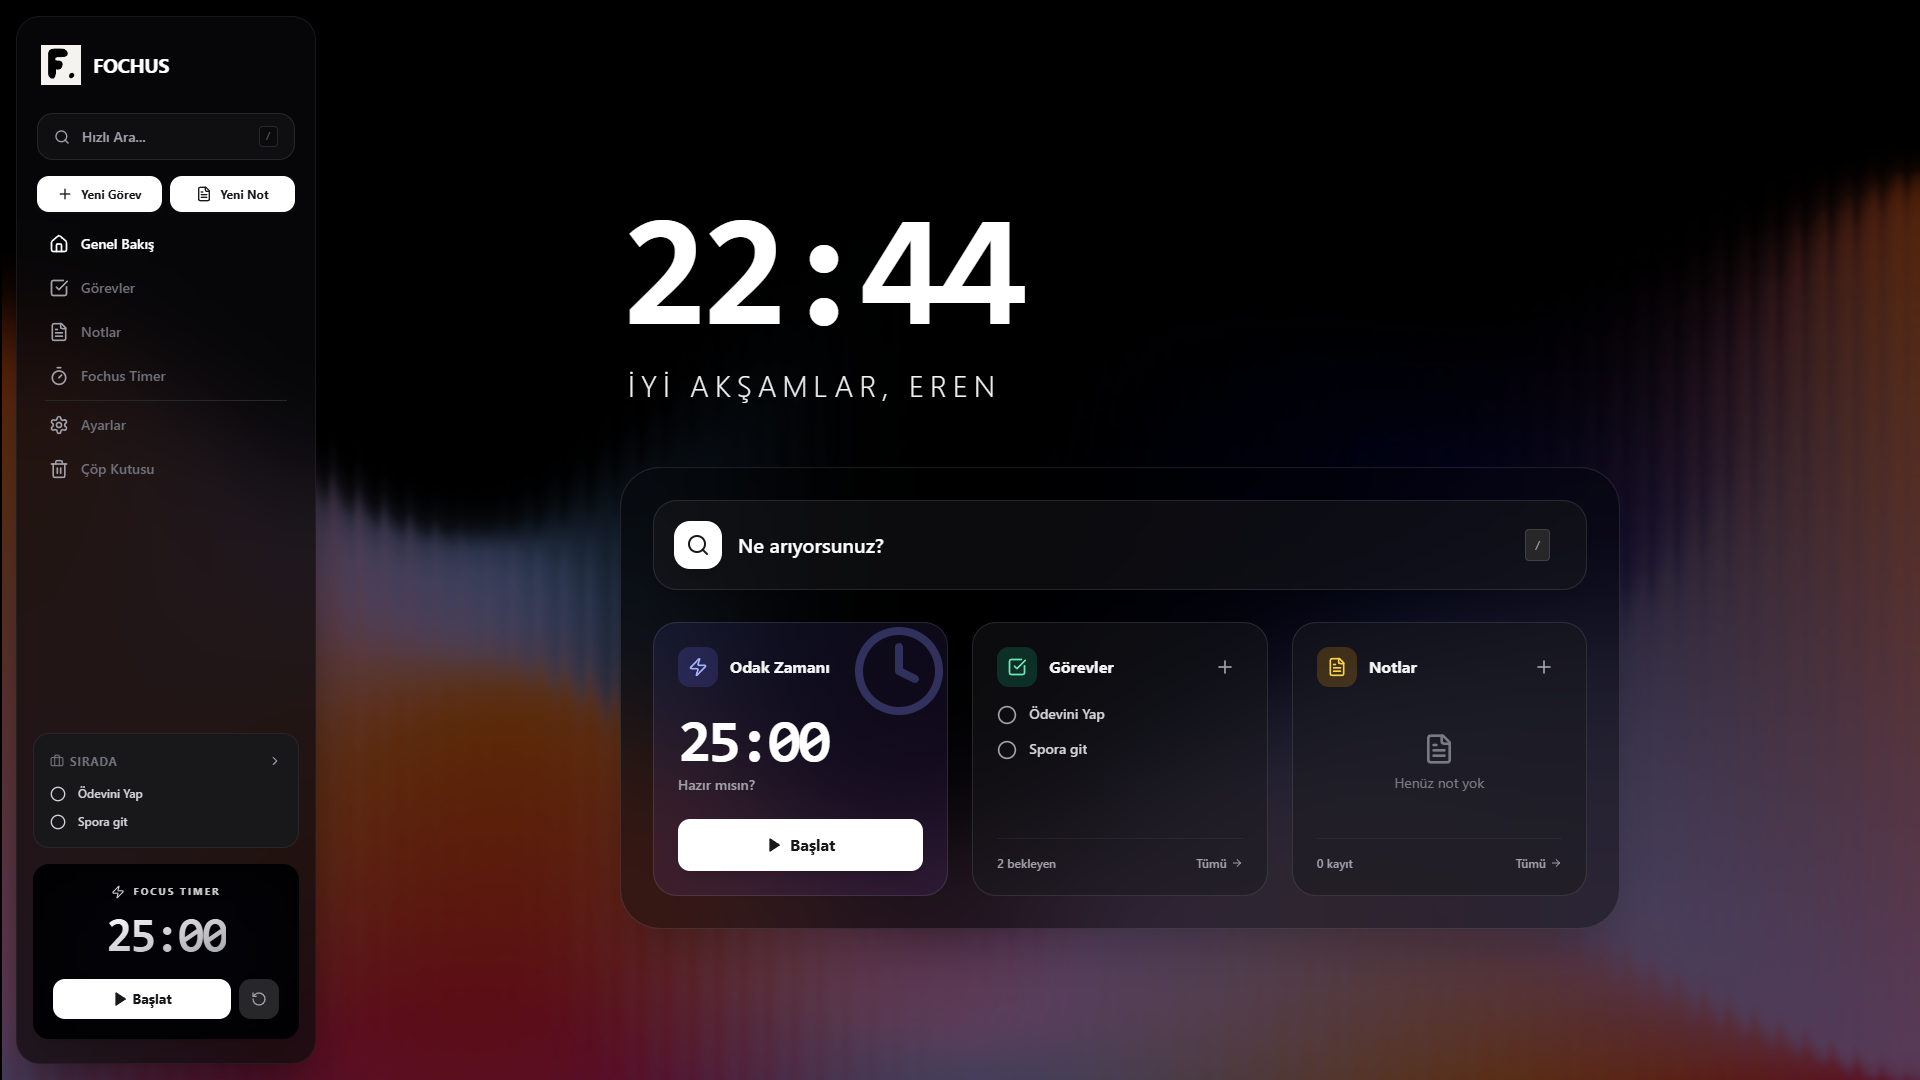
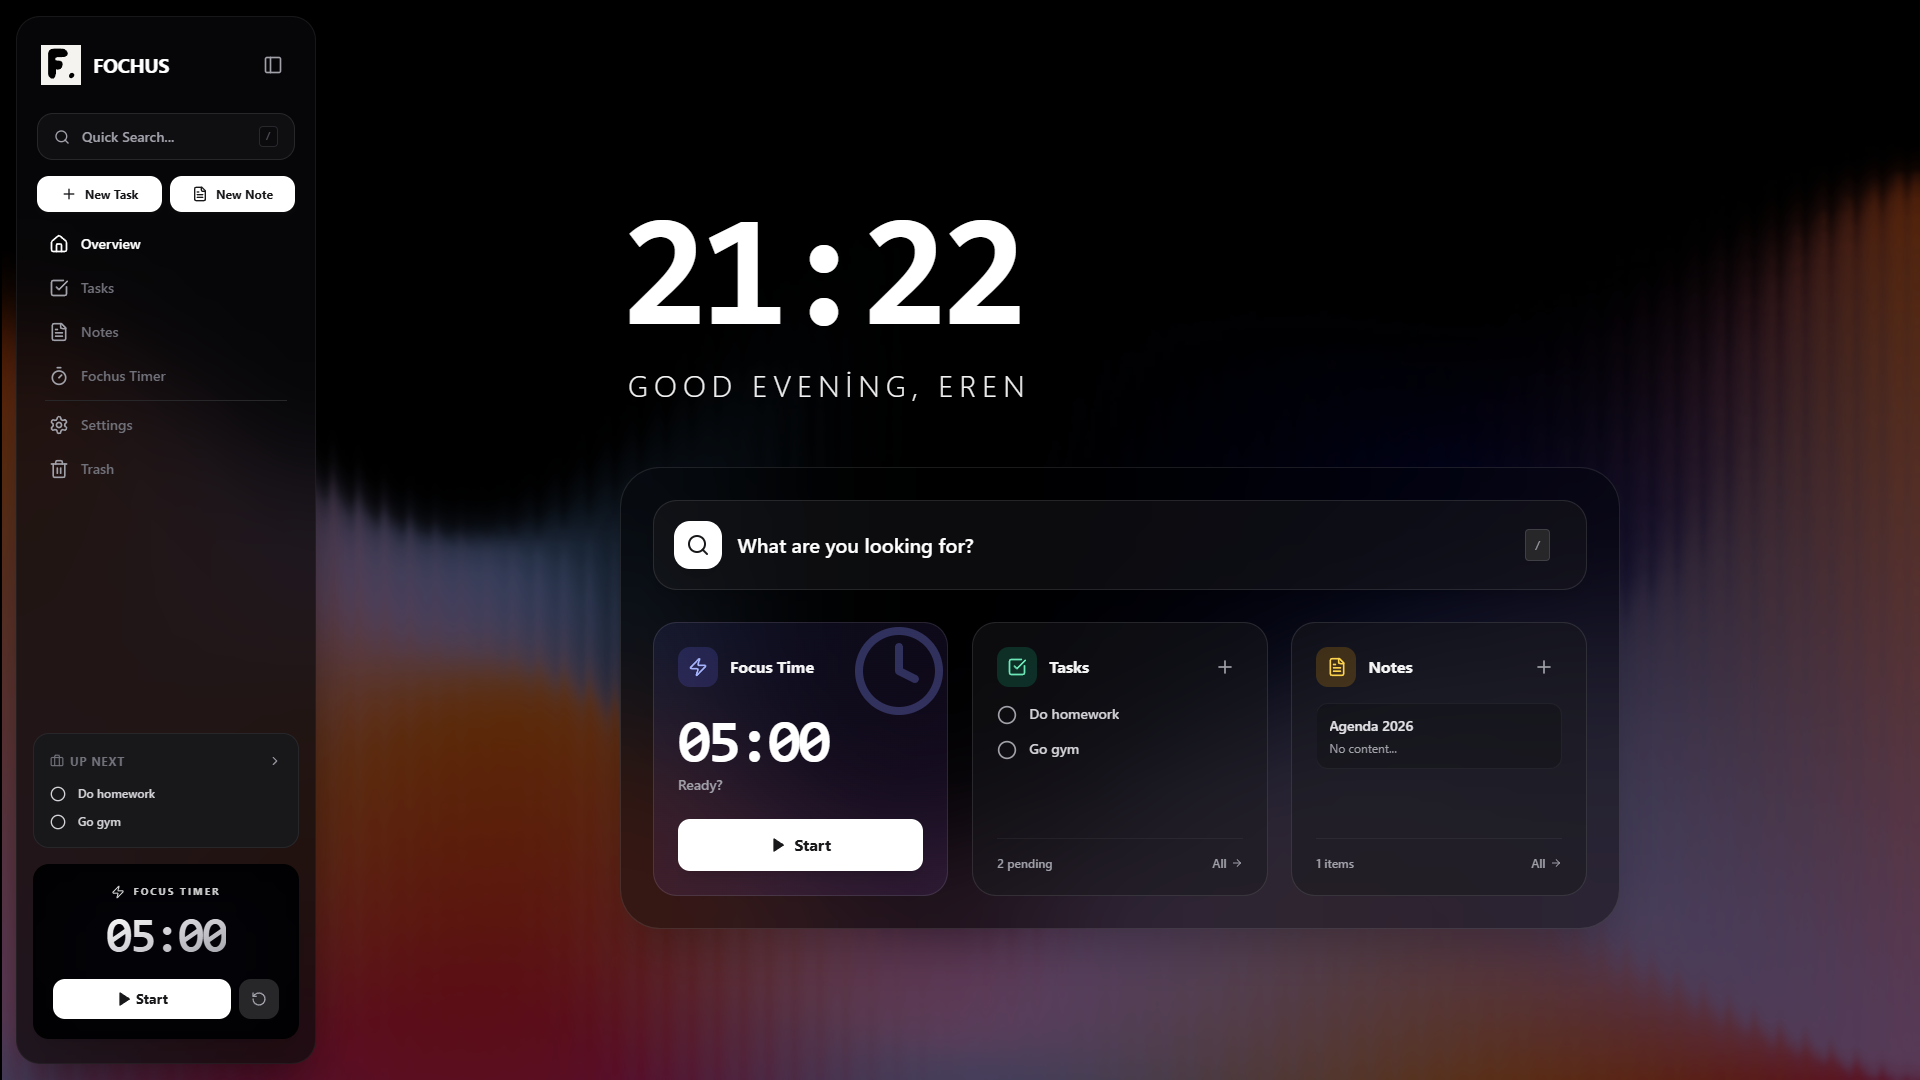
fix(README): replace spotlight_dark.png with spotlight.png and update image references

diff --git a/README.md b/README.md
@@ -125,7 +125,7 @@ You can use **Docker** (recommended) or manual installation methods to run the p
 Don't get lost in the app! Access your notes, tasks, and settings in seconds with the **Spotlight** feature (`/` key).
 
 <div align="center">
-  <img src="spotlight_dark.png" alt="Spotlight Search Feature" width="80%" style="border-radius: 10px; box-shadow: 0 10px 30px rgba(0,0,0,0.5);">
+  <img src="spotlight.png" alt="Spotlight Search Feature" width="80%" style="border-radius: 10px; box-shadow: 0 10px 30px rgba(0,0,0,0.5);">
 </div>
 
 ---